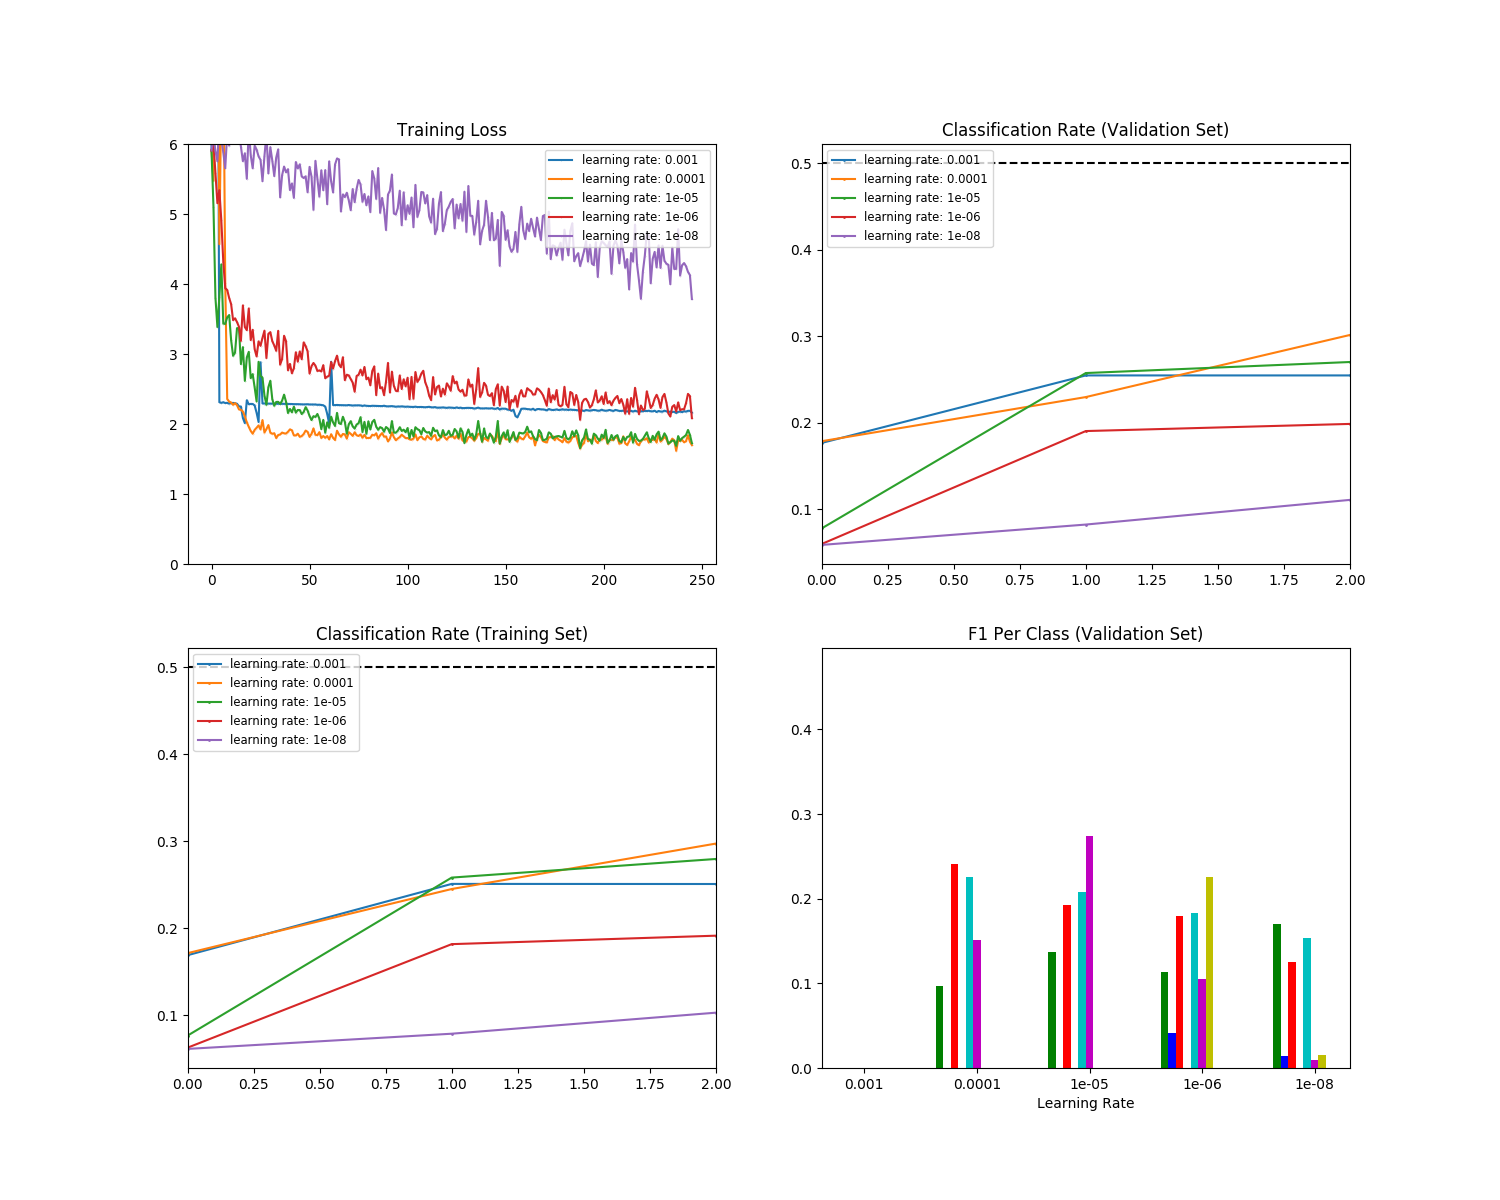
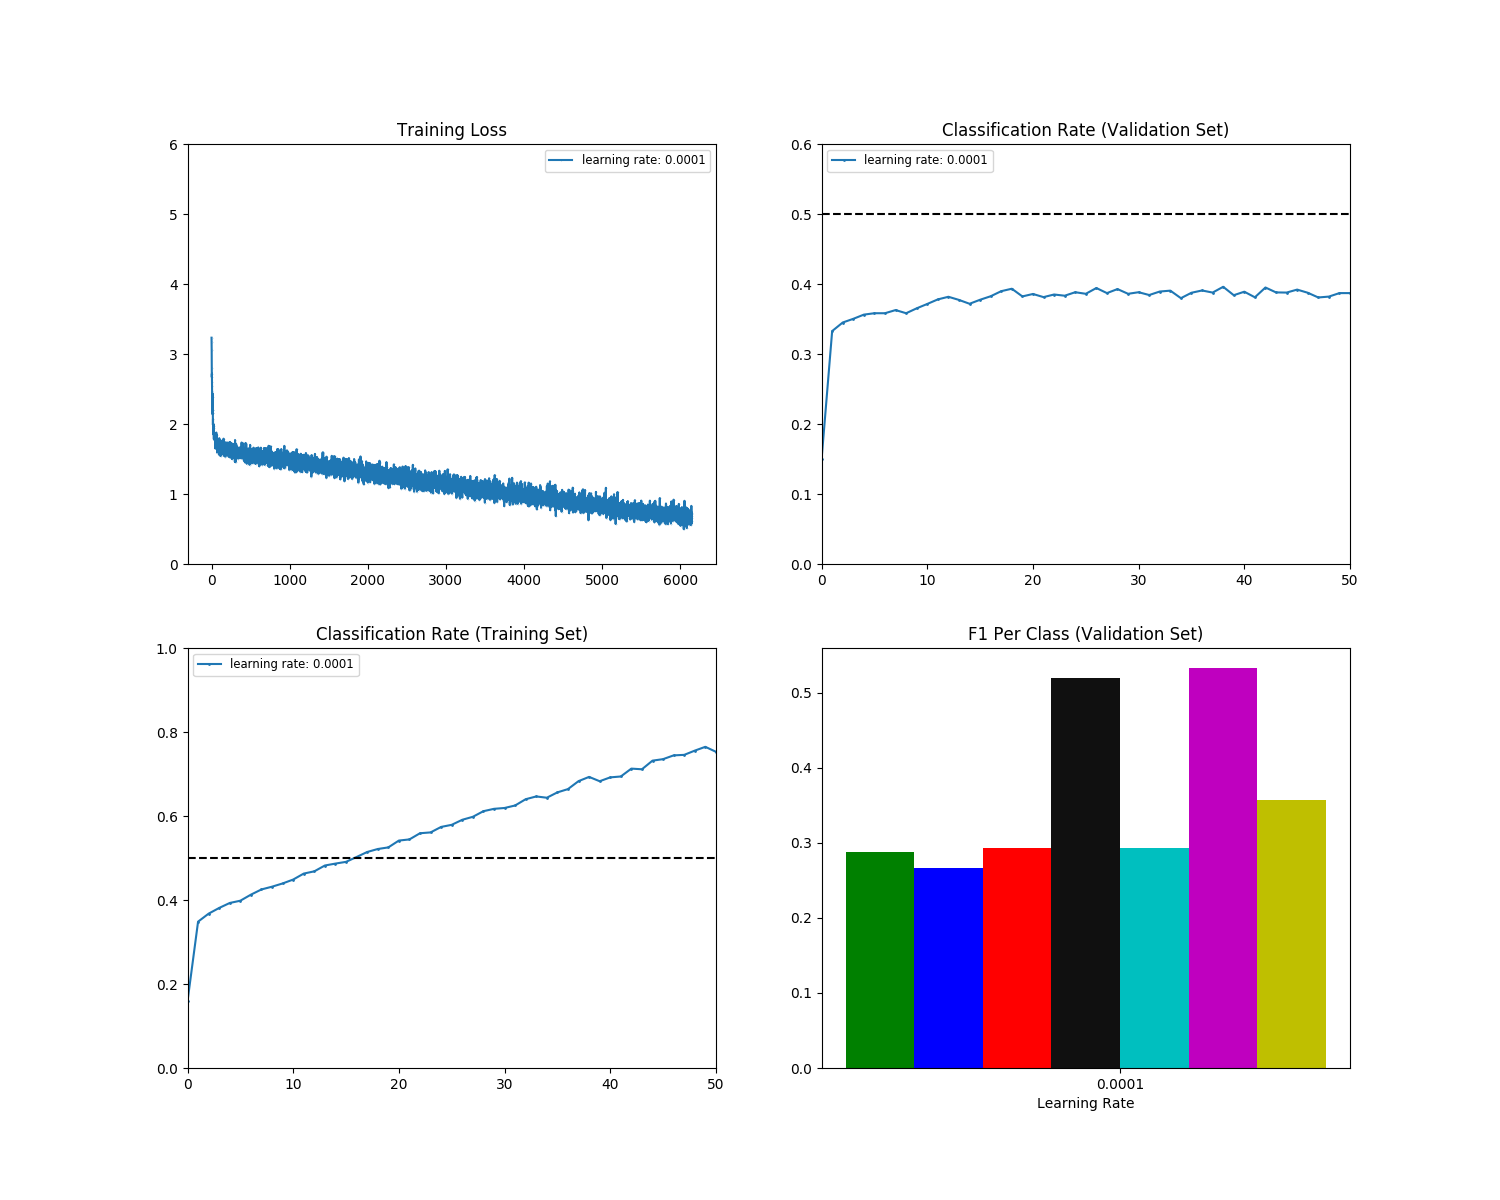
Fixes

diff --git a/src/utils/data_utils.py b/src/utils/data_utils.py
@@ -88,7 +88,6 @@ def get_CIFAR10_data(num_training=49000, num_validation=1000, num_test=1000,
 
 def get_FER2013_data(num_training = 28709,num_test = 3589,num_val = 4000):
 
-
     if(num_val > num_training*0.2):
         print("num_val size too large, please insert something smaller")
 
@@ -97,7 +96,6 @@ def get_FER2013_data(num_training = 28709,num_test = 3589,num_val = 4000):
     test_dir = directory + '/Test/'
 
     labels = np.loadtxt(directory + '/labels_public.txt',skiprows=1,delimiter=',',usecols=1,dtype='int')
-
 
 #    data = dict.fromkeys(['X_train','y_train','X_test','y_test','X_val','y_val'])
 
@@ -115,7 +113,6 @@ def get_FER2013_data(num_training = 28709,num_test = 3589,num_val = 4000):
     # X_val=np.empty((num_val,48,48,1))
     # y_val = np.empty((num_val,1))
 
-
     for i in range(0,num_training):
         with Image.open(train_dir + str(i+1) + '.jpg').convert("L") as image:
             im_arr = np.fromstring(image.tobytes(), dtype=np.uint8)
@@ -127,9 +124,6 @@ def get_FER2013_data(num_training = 28709,num_test = 3589,num_val = 4000):
             else:
                 X_train.append(im_arr)
                 y_train.append(labels[i])
-
-
-
 
 #    print(X_train)
     for i in range(0,num_test):
@@ -153,47 +147,16 @@ def get_FER2013_data(num_training = 28709,num_test = 3589,num_val = 4000):
       'X_test': X_test, 'y_test': y_test,
     }
 
-def read_jpeg(filename_queue):
-    reader = tf.WholeFileReader()
-    key, value = reader.read(filename_queue)
+def get_FER2013_data_normalisation(num_training = 28709,num_test = 3589,num_val = 4000):
 
-    image = tf.image.decode_raw(value, tf.uint8)
-    image.set_shape([48,48,1])
-    return image
-
-def combine_fer2013():
-
-    data = get_FER2013_data()
-
-    merged_train = data["X_train"]
-    merged_val = data["X_val"]
-
-    for i in range(data["y_train"]):
-        data["y_train"][i] = bytes(data["y_train"][i],'uint8')
-    for j in range(data["y_val"]):
-        data["y_val"][i] = bytes(data["y_val"][i],'uint8')
-
-    merged_train = data["y_train"] + merged_train
-    merged_val = data["y_val"] + merged_val
-
-    return merged_train, merged_val
-
-
-
-def read_fer2013(num_training = 24709,num_test = 3589,num_val = 4000):
+    if(num_val > num_training*0.2):
+        print("num_val size too large, please insert something smaller")
 
     directory = 'datasets/public'
     train_dir = directory + '/Train/'
     test_dir = directory + '/Test/'
 
     labels = np.loadtxt(directory + '/labels_public.txt',skiprows=1,delimiter=',',usecols=1,dtype='int')
-    y_train = np.empty((num_training,1))
-    y_test = np.empty((num_test,1))
-#    print(labels)
-
-    #    print(labels)
-
-    #    data = dict.fromkeys(['X_train','y_train','X_test','y_test','X_val','y_val'])
 
     X_train=[]
     y_train = []
@@ -202,33 +165,35 @@ def read_fer2013(num_training = 24709,num_test = 3589,num_val = 4000):
     X_val=[]
     y_val = []
 
-    train_queue = tf.train.string_input_producer(tf.train.match_filenames_once(train_dir+"*.jpg"))
-    test_queue = tf.train.string_input_producer(tf.train.match_filenames_once(test_dir+"*.jpg"))
+    for i in range(0,num_training):
+        with Image.open(train_dir + str(i+1) + '.jpg').convert("L") as image:
+            im_arr = np.fromstring(image.tobytes(), dtype=np.uint8)
+            im_arr = im_arr.reshape((image.size[1], image.size[0], 1))
 
-    image_reader = tf.WholeFileReader()
+            if(i < (num_val)):
+                X_val.append(im_arr)
+                y_val.append(labels[i])
+            else:
+                X_train.append(im_arr)
+                y_train.append(labels[i])
 
-    for i in range(num_training):
-        _,image_file = image_reader.read(train_queue)
-        image = tf.image.decode_jpeg(image_file)
-        tf.image.random_flip_left_image(image)
-        tf.image.random_brightness(image)
-        tf.image.random_contrast(image)
-        X_train.append(image.eval())
-        y_train.append(labels[i])
+#    print(X_train)
+    for i in range(0,num_test):
+        with Image.open(test_dir + str(i+28709+1) + '.jpg').convert("L") as image:
+            im_arr = np.fromstring(image.tobytes(), dtype=np.uint8)
+            im_arr = im_arr.reshape((image.size[1], image.size[0], 1))
+            X_test.append(im_arr)
+            y_test.append(labels[i+28709])
 
+    mean_image = np.mean(X_train, axis=0, dtype=int)
+    X_train = np.asarray(X_train) - mean_image
+    y_train = np.asarray(y_train)
+    X_test = np.asarray(X_test) - mean_image
+    y_test = np.asarray(y_test)
+    X_val = np.asarray(X_val) - mean_image
+    y_val = np.asarray(y_val)
 
-    for i in range(num_val):
-        _,image_file = image_reader.read(train_queue)
-        image = tf.image.decode_jpeg(image_file)
-        X_val.append(image.eval())
-        y_val.append(labels[i+num_training])
-
-    for i in range(num_test):
-        _,image_file = image_reader.read(test_queue)
-        image = tf.image.decode_jpeg(image_file)
-        X_test.append(image.eval())
-        y_test.append(labels[i])
-
+    # print(X_train)
 
     # Package data into a dictionary
     return {
@@ -236,15 +201,3 @@ def read_fer2013(num_training = 24709,num_test = 3589,num_val = 4000):
       'X_val': X_val, 'y_val': y_val,
       'X_test': X_test, 'y_test': y_test,
     }
-#image_dict = get_FER2013_data(num_training = 5000,num_test = 1000,num_val = 1000)
-#f = open('Datasets/public/image_dict_short.pkl','wb')
-#pickle.dump(image_dict,f)
-#f.close()
-
-
-#data = get_FER2013_data(num_training = 100,num_test = 100,num_val = 20)
-#for key, values in data.items():
-#    print(key,values)
-
-#train_tensor, test_tensor, y_train, y_test =   get_FER2013_data_tensor(num_training = 5000,num_test = 1000)
-#print(y_train)

diff --git a/src/optimising/learning.py b/src/optimising/learning.py
@@ -4,16 +4,11 @@ from matplotlib.font_manager import FontProperties
 import numpy as np
 from src.fcnet import FullyConnectedNet
 from src.utils.solver import Solver
-from src.utils.data_utils import get_CIFAR10_data
 from src.utils.data_utils import get_FER2013_data
+from src.utils.data_utils import get_FER2013_data_normalisation
 
-#import sys
-#import traceback
-#sys.stdout = traceback.print_stack
-#print = None
-
-learningRates = [0.001, 1e-4, 1e-5, 1e-6, 1e-8]
-data_dict = get_FER2013_data()
+learningRates = [1e-4]#[0.001, 1e-4, 1e-5, 1e-6, 1e-8]
+data_dict = get_FER2013_data_normalisation()
 
 losses = []
 accuracies = []
@@ -23,8 +18,8 @@ classAccs = []
 
 for learningRate in learningRates:
     # print(learningRate)
-    model = FullyConnectedNet([120],input_dim = 48*48*1, dropout=0, reg=0, dtype=np.float64, seed=237)
-    number_epochs = 2
+    model = FullyConnectedNet([100],input_dim = 48*48*1, num_classes=7, dropout=0, reg=0, dtype=np.float64, seed=450)
+    number_epochs = 50
     solver = Solver(model,data_dict,optim_config={'learning_rate':learningRate},lr_decay=1,num_epochs=number_epochs,batch_size=200,print_every=5000,num_train_samples=40000)
     results = solver.train()
     losses.append(solver.loss_history)
@@ -53,6 +48,7 @@ for i, accuracy in enumerate(accuracies):
 plt.plot([0.5]* len(solver.val_acc_history),'k--')
 plt.legend(prop=fontP,loc='upper left')
 plt.xlim(0,number_epochs)
+plt.ylim(0,0.6)
 
 plt.subplot(2,2,3)
 plt.title("Classification Rate (Training Set)")
@@ -61,14 +57,15 @@ for i, accuracy in enumerate(trainAccs):
 plt.plot([0.5]* len(solver.train_acc_history),'k--')
 plt.legend(prop=fontP,loc='upper left')
 plt.xlim(0,number_epochs)
+plt.ylim(0,1)
 
 plt.subplot(2,2,4)
 plt.title("F1 Per Class (Validation Set)")
 xTicks = [str(rate) for rate in learningRates]
-colours = ['g', 'b', 'r', 'w', 'c', 'm', 'y', 'k', "#505050", "#DD1000"]
+colours = ['g', 'b', 'r', '#101010', 'c', 'm', 'y', 'k', "#505050", "#DD1000"]
 for i, f1 in enumerate(f1s):
     for j, f in enumerate(f1):
-        plt.bar(1.5*i+0.1*j, f, width=0.1, color=colours[j], label=j)
+        plt.bar(1.5*i+(j/7), f, width=(1/7), color=colours[j], label=j)
 plt.xlabel('Learning Rate')
 plt.xticks([1.5*i+0.5 for i in range(len(f1s))], xTicks)
 

diff --git a/src/optimising/neurons.py b/src/optimising/neurons.py
@@ -6,10 +6,11 @@ from src.fcnet import FullyConnectedNet
 from src.utils.solver import Solver
 from src.utils.data_utils import get_CIFAR10_data
 from src.utils.data_utils import get_FER2013_data
+from src.utils.data_utils import get_FER2013_data_normalisation
 
 
 numberOfNeurons = [100,200,300,400,500]
-data_dict = get_FER2013_data()
+data_dict = get_FER2013_data_normalisation()
 
 losses = []
 accuracies = []
@@ -18,7 +19,7 @@ trainAccs = []
 classAccs = []
 
 for numberNeuron in numberOfNeurons:
-    model = FullyConnectedNet([numberNeuron], input_dim = 48*48*1, dropout=0, reg=0.5, dtype=np.float64, seed=237)
+    model = FullyConnectedNet([numberNeuron], input_dim = 48*48*1, num_classes=7, dropout=0, reg=0.5, dtype=np.float64, seed=237)
     number_epochs = 50
     solver = Solver(model,data_dict,optim_config={'learning_rate':1e-4},lr_decay=0.95,num_epochs=number_epochs,batch_size=200,print_every=5000,num_train_samples=40000)
     results = solver.train()

diff --git a/src/optimising/learningReg.py b/src/optimising/learningReg.py
@@ -6,11 +6,12 @@ from src.fcnet import FullyConnectedNet
 from src.utils.solver import Solver
 from src.utils.data_utils import get_CIFAR10_data
 from src.utils.data_utils import get_FER2013_data
+from src.utils.data_utils import get_FER2013_data_normalisation
 
 
 
 regs = [0,0.1,0.2,0.5,0.8]
-data_dict = get_FER2013_data()
+data_dict = get_FER2013_data_normalisation()
 
 losses = []
 accuracies = []
@@ -19,7 +20,7 @@ f1s = []
 classAccs = []
 
 for regularisation in regs:
-    model = FullyConnectedNet([120], input_dim = 48*48*1, dropout=0, reg=regularisation, dtype=np.float64, seed=237)
+    model = FullyConnectedNet([120], input_dim = 48*48*1, num_classes=7, dropout=0, reg=regularisation, dtype=np.float64, seed=237)
     number_epochs = 50
     solver = Solver(model,data_dict,optim_config={'learning_rate':1e-4},lr_decay=0.95,num_epochs=number_epochs,batch_size=200,print_every=5000,num_train_samples=40000)
     results = solver.train()

diff --git a/src/optimising/learningDecay.py b/src/optimising/learningDecay.py
@@ -5,9 +5,10 @@ import numpy as np
 from src.fcnet import FullyConnectedNet
 from src.utils.solver import Solver
 from src.utils.data_utils import get_FER2013_data
+from src.utils.data_utils import get_FER2013_data_normalisation
 
 rateDecays = [0.99, 0.95, 0.9, 0.3]#, 1e-4, 1e-6, 1e-8]
-data_dict = get_FER2013_data()
+data_dict = get_FER2013_data_normalisation()
 
 losses = []
 accuracies = []
@@ -16,7 +17,7 @@ f1s = []
 classAccs = []
 
 for rateDecay in rateDecays:
-    model = FullyConnectedNet([120], input_dim = 48*48*1,dropout=0, reg=0, dtype=np.float64, seed=237)
+    model = FullyConnectedNet([120], input_dim = 48*48*1, num_classes=7, dropout=0, reg=0, dtype=np.float64, seed=237)
     number_epochs = 50
     solver = Solver(model,data_dict,optim_config={'learning_rate':1e-4},lr_decay=rateDecay,num_epochs=number_epochs,batch_size=200,print_every=5000,num_train_samples=40000)
     results = solver.train()

diff --git a/src/utils/solver.py b/src/utils/solver.py
@@ -360,7 +360,7 @@ def performanceMetrics(confMatrix):
     total_predictions = confMatrix.values.sum()
     total_sum = 0
     max_number = np.amax(confMatrix.index.values)
-    for row in range(0,max_number):
+    for row in range(0,max_number+1):
         total_sum = total_sum + confMatrix.iloc[row].loc[row]
 
     accuracy = (total_sum/total_predictions)*100
@@ -373,7 +373,7 @@ def performanceMetrics(confMatrix):
     precisions = []
     recalls = []
     F1s = []
-    for class_number in range(0,max_number):
+    for class_number in range(0,max_number+1):
         # print("Classification measures for class",class_number,":")
         number_correct = confMatrix.iloc[class_number].loc[class_number]
         total_number_of_class = confMatrix.iloc[class_number].sum()

diff --git a/src/optimising/learningArch.py b/src/optimising/learningArch.py
@@ -4,10 +4,11 @@ from src.fcnet import FullyConnectedNet
 from src.utils.solver import Solver
 from src.utils.data_utils import get_CIFAR10_data
 from src.utils.data_utils import get_FER2013_data
+from src.utils.data_utils import get_FER2013_data_normalisation
 
 
 archs = [[400,200], [400]]#, 1e-4, 1e-6, 1e-8]
-data_dict = get_FER2013_data()
+data_dict = get_FER2013_data_normalisation()
 
 losses = []
 accuracies = []

diff --git a/src/optimising/dropout.py b/src/optimising/dropout.py
@@ -6,10 +6,11 @@ from src.fcnet import FullyConnectedNet
 from src.utils.solver import Solver
 from src.utils.data_utils import get_CIFAR10_data
 from src.utils.data_utils import get_FER2013_data
+from src.utils.data_utils import get_FER2013_data_normalisation
 
 
 dropouts = [0,0.01,0.1,0.25,0.5]
-data_dict = get_FER2013_data()
+data_dict = get_FER2013_data_normalisation()
 
 losses = []
 accuracies = []
